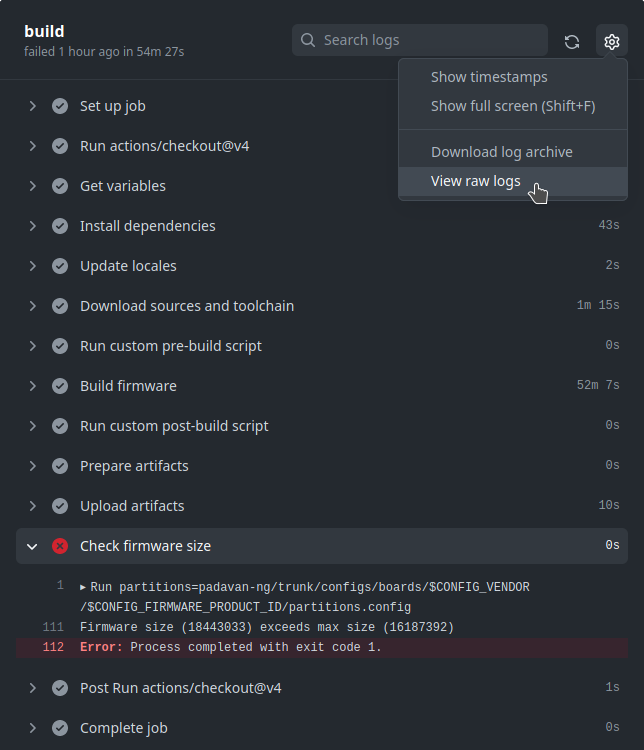
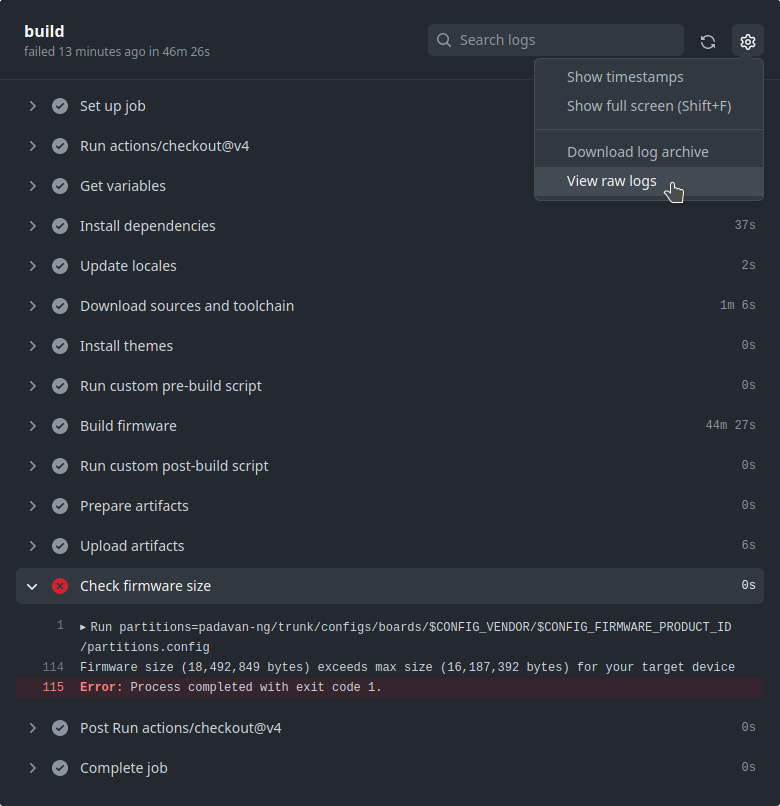
Update failed build screenshot and readme

diff --git a/README.ru.md b/README.ru.md
@@ -44,7 +44,7 @@
 
   ![workflow details get logs](misc/workflow-details-get-logs.webp)
 
-  Здесь сразу видно, что ошибка возникла на шаге Check firmware size — проверки размера прошивки — этот шаг отмечен красным кружком с крестиком. Далее указана конкретная причина: Firmware size (18443033) exceeds max size (16187392) — то есть размер собранной прошивки превышает максимально допустимый для устройства размер.
+  Здесь сразу видно, что ошибка возникла на шаге Check firmware size — проверки размера прошивки — этот шаг отмечен красным кружком с крестиком. Далее указана конкретная причина: *Firmware size (18,492,849 bytes) exceeds max size (16,187,392 bytes) for your target device* — то есть размер собранной прошивки превышает максимально допустимый для устройства размер.
 
   В случае любых ошибок причина обычно указана в конце лога, как в примере выше. Для просмотра полного лога нажмите на шестерёнку ⚙ в верхнем правом углу и выберите View raw logs. Можно также загрузить сжатый архив с логом, выбрав Download log archive.
 

diff --git a/README.md b/README.md
@@ -44,7 +44,7 @@
 
   ![workflow details get logs](misc/workflow-details-get-logs.webp)
 
-  Here we can quickly see that it was "Check firmware size" step that failed — it is marked with a red circle with a cross. Specific reason is shown below: Firmware size (18443033) exceeds max size (16187392) — i.e. built firmware is too big for the target device.
+  Here it's immediately obvious that it was "Check firmware size" step that failed — it is marked with a red circle with a cross. Specific reason is shown below: *Firmware size (18,492,849 bytes) exceeds max size (16,187,392 bytes) for your target device* — i.e. built firmware size is too big for the target device.
 
   In case of any error its reason is usually shown at the end of the log, as in the example above. To view full log click on the cog ⚙ icon in the top right corner → View raw logs. You can also download compressed log archive in the same menu → Download log archive.
 
